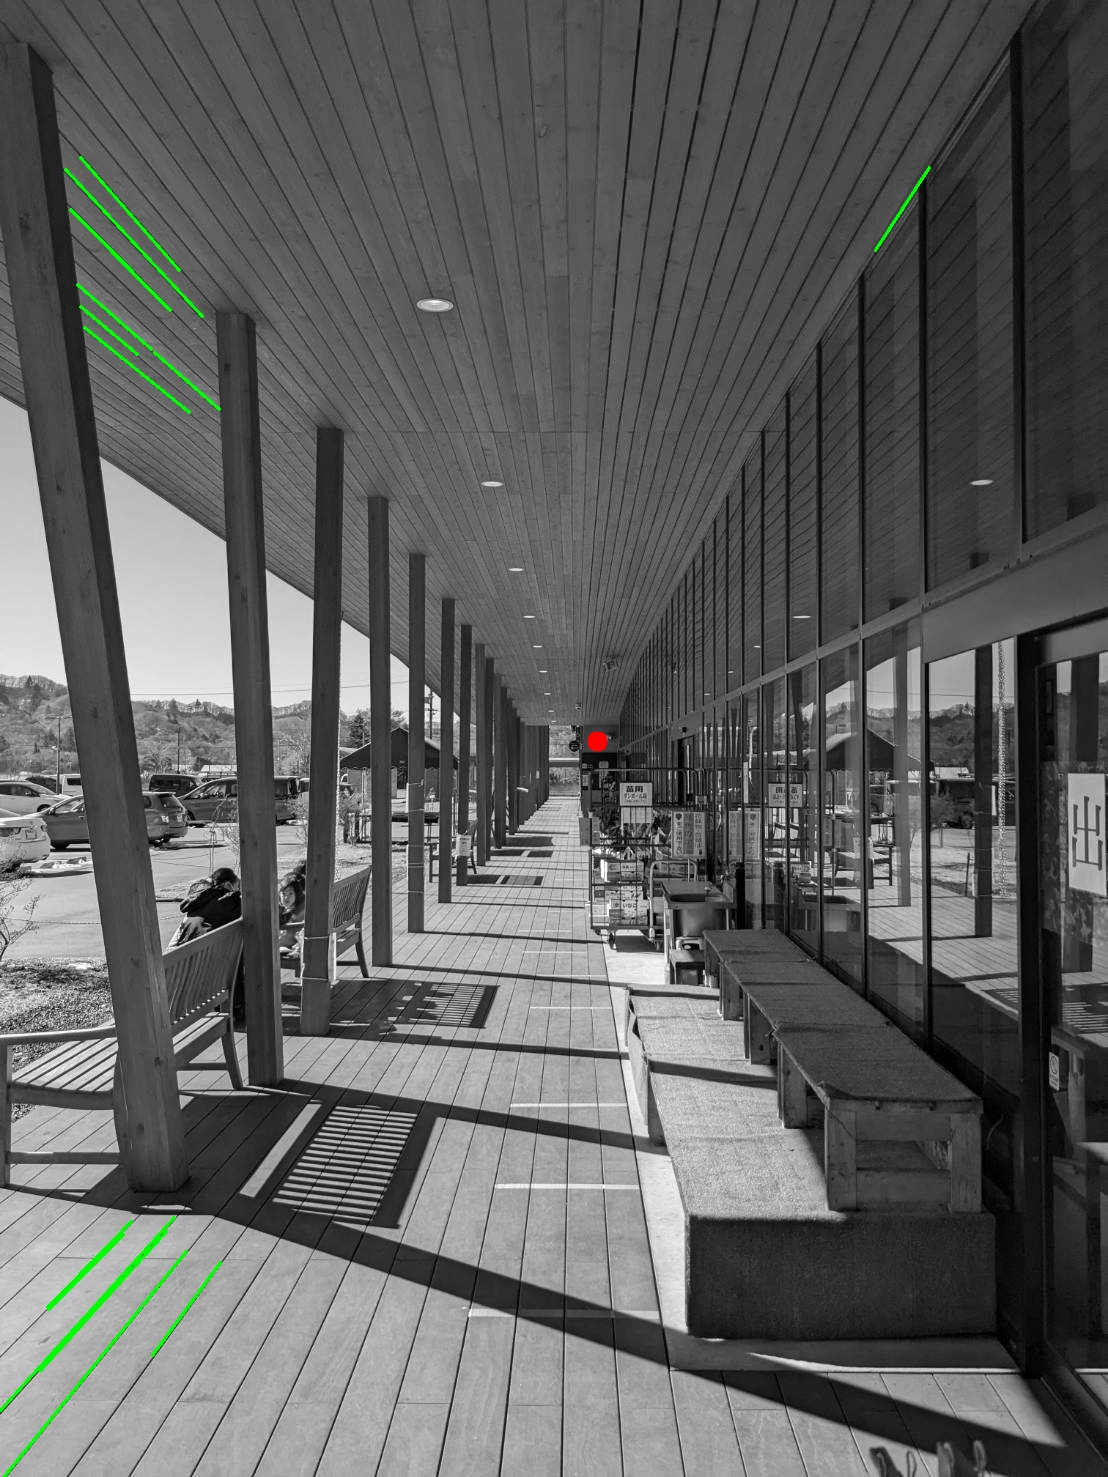
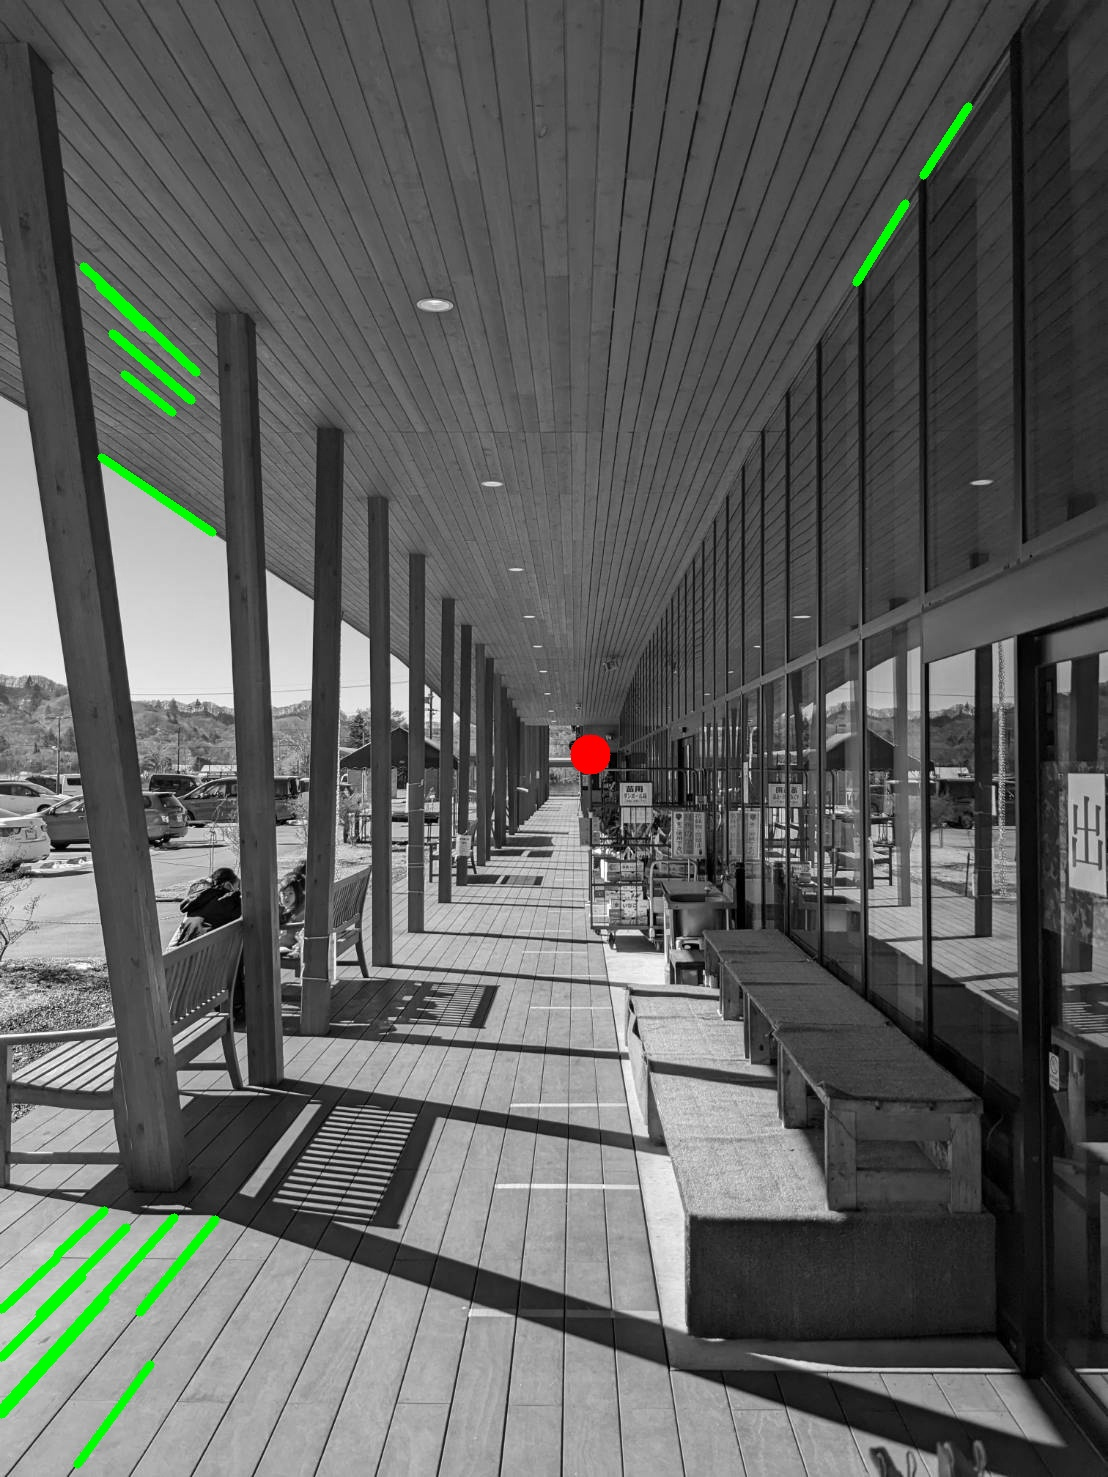
refactoring fn names

diff --git a/modules/VanishinPointDetector.py b/modules/VanishinPointDetector.py
@@ -20,9 +20,10 @@ class VanishingPointDetector():
             exit(0)
         img = self.img.copy()
         for line in self.lines:
-            cv2.line(img, (line[0], line[1]), (line[2], line[3]), (0, 255, 0), 2)
-            cv2.circle(img, (int(self.vp[0]), int(self.vp[1])), 10, (0, 0, 255), -1)
+            cv2.line(img, (line[0], line[1]), (line[2], line[3]), (0, 255, 0), 8)
+            cv2.circle(img, (int(self.vp[0]), int(self.vp[1])), 20, (0, 0, 255), -1)
         cv2.imshow('Vanishing point and its supporting lines', img)
+        # cv2.imwrite('karuizawa_module1.jpg', img)
         cv2.waitKey(0)
 
     def filterLines(self, lines):

diff --git a/modules/ScaleDetector.py b/modules/ScaleDetector.py
@@ -13,7 +13,7 @@ class ScaleDetector():
         # Load image
         self.img = img
 
-    def drawHumanFigure(self, x=None, y=None, h=None, color=None):
+    def drawHumanFigureLayout(self, x=None, y=None, h=None, color=None):
         x = x or self.rp_x
         y = y or self.rp_y
         h = h or self.rp_h

diff --git a/main.py b/main.py
@@ -25,7 +25,7 @@ if __name__ == "__main__":
     rp = (420, 900)
     rh = 150
     sd = ScaleDetector(img, vp, rp, rh)
-    sd.drawHumanFigure()
+    # sd.drawHumanFigureLayout()
     sd.drawVanishingPoint()
     for pos in positions:
         sd.drawTargetPoint(pos)
